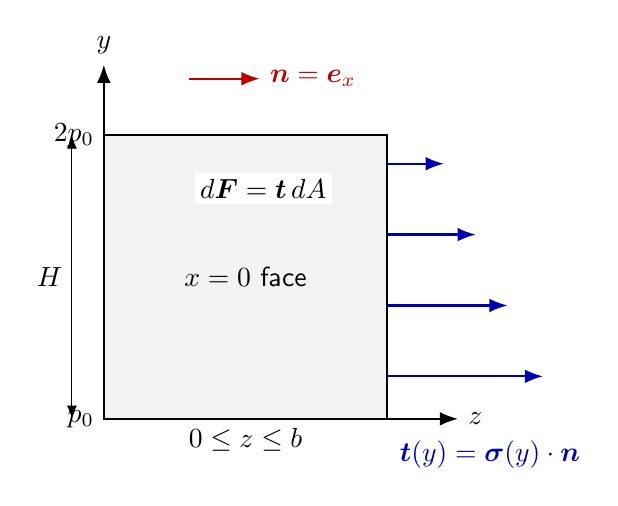
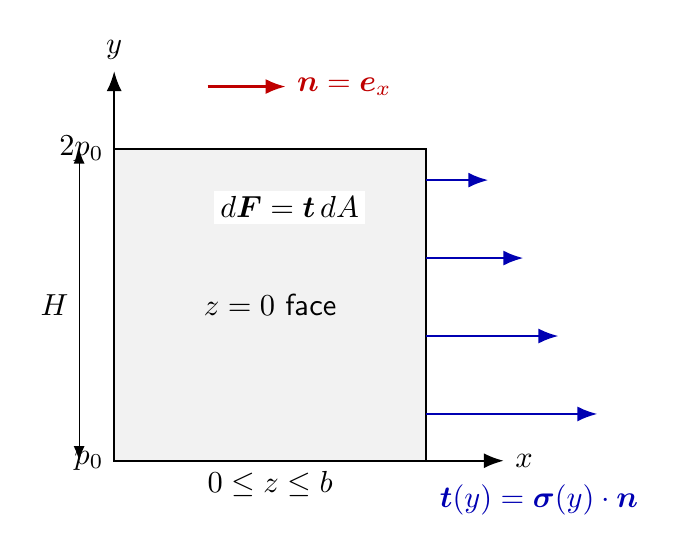
Corrected illustrations used in <metal_plasticity_06_force_stress.md>

diff --git a/assets/tikz/metal_plasticity/traction_distribution.tex b/assets/tikz/metal_plasticity/traction_distribution.tex
@@ -5,13 +5,13 @@
 \begin{tikzpicture}[>=Latex,font=\sffamily,scale=0.9]
 \filldraw[fill=gray!10,draw=black,thick] (0,0) rectangle (4,4);
 \draw[->,thick] (0,0) -- (0,5) node[above] {$y$};
-\draw[->,thick] (0,0) -- (5,0) node[right] {$z$};
+\draw[->,thick] (0,0) -- (5,0) node[right] {$x$};
 \draw[->,thick,blue!70!black] (4,0.6) -- (5.2,0.6);
 \draw[->,thick,blue!70!black] (4,1.6) -- (5.35,2.05);
 \draw[->,thick,blue!70!black] (4,2.6) -- (5.1,3.55);
 \draw[->,thick,blue!70!black] (4,3.6) -- (4,5.0);
 \node[blue!70!black,align=center] at (5.9,4.35) {$\boldsymbol t(y)=\boldsymbol\sigma(y)\cdot\boldsymbol n$};
-\node at (2,2) {$x=0$ face};
+\node at (2,2) {$z=0$ face};
 \node[left] at (0,0) {$\theta=0$};
 \node[left] at (0,4) {$\theta=\pi/2$};
 \node[below] at (2,0) {$0\le z\le b$};

diff --git a/assets/tikz/metal_plasticity/traction_magnitude_distribution.tex b/assets/tikz/metal_plasticity/traction_magnitude_distribution.tex
@@ -5,13 +5,13 @@
 \begin{tikzpicture}[>=Latex,font=\sffamily,scale=0.9]
 \filldraw[fill=gray!10,draw=black,thick] (0,0) rectangle (4,4);
 \draw[->,thick] (0,0) -- (0,5) node[above] {$y$};
-\draw[->,thick] (0,0) -- (5,0) node[right] {$z$};
+\draw[->,thick] (0,0) -- (5,0) node[right] {$x$};
 \draw[->,thick,blue!70!black] (4,0.6) -- (6.2,0.6);
 \draw[->,thick,blue!70!black] (4,1.6) -- (5.7,1.6);
 \draw[->,thick,blue!70!black] (4,2.6) -- (5.25,2.6);
 \draw[->,thick,blue!70!black] (4,3.6) -- (4.8,3.6);
 \node[blue!70!black,align=center] at (5.45,-0.5) {$\boldsymbol t(y)=\boldsymbol\sigma(y)\cdot\boldsymbol n$};
-\node at (2,2) {$x=0$ face};
+\node at (2,2) {$z=0$ face};
 \node[left] at (0,0) {$p_0$};
 \node[left] at (0,4) {$2p_0$};
 \node[below] at (2,0) {$0\le z\le b$};

diff --git a/assets/lecture_notes/5_1_polycrystalline_plasticity/metal_plasticity_06_force_stress.md b/assets/lecture_notes/5_1_polycrystalline_plasticity/metal_plasticity_06_force_stress.md
@@ -314,7 +314,7 @@ $$
 이다. 따라서 $\|\boldsymbol t\|=p_0$이지만, 면력의 방향은 면의 높이에 따라
 회전한다.
 
-![y 위치에 따라 방향이 변하는 면력벡터 분포](/assets/img/lecture_notes/stress/traction_direction_distribution.png)
+![y 위치에 따라 방향이 변하는 면력벡터 분포](/assets/img/lecture_notes/stress/traction_distribution.png)
 
 면적요소 $dA=dy\,dz$에 작용하는 미소 힘은 $d\boldsymbol F=\boldsymbol t\,dA$이고,
 면 전체의 합력은
